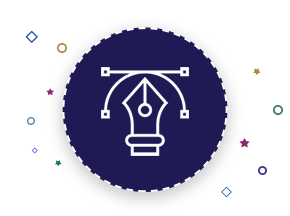
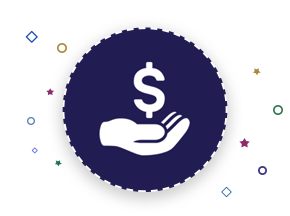
bug fixes

Changed region(s): [[0.3414, 0.2778, 0.6828, 0.7222]]

diff --git a/fonts/fontello/css/fontello-embedded.css b/fonts/fontello/css/fontello-embedded.css
@@ -1,15 +1,15 @@
 @font-face {
   font-family: 'fontello';
-  src: url('../font/fontello.eot?55597791');
-  src: url('../font/fontello.eot?55597791#iefix') format('embedded-opentype'),
-       url('../font/fontello.svg?55597791#fontello') format('svg');
+  src: url('../font/fontello.eot?74266186');
+  src: url('../font/fontello.eot?74266186#iefix') format('embedded-opentype'),
+       url('../font/fontello.svg?74266186#fontello') format('svg');
   font-weight: normal;
   font-style: normal;
 }
 @font-face {
   font-family: 'fontello';
[4 lines of base64/hex data omitted]
 }
 /* Chrome hack: SVG is rendered more smooth in Windozze. 100% magic, uncomment if you need it. */
 /* Note, that will break hinting! In other OS-es font will be not as sharp as it could be */
@@ -17,7 +17,7 @@
 @media screen and (-webkit-min-device-pixel-ratio:0) {
   @font-face {
     font-family: 'fontello';
-    src: url('../font/fontello.svg?55597791#fontello') format('svg');
+    src: url('../font/fontello.svg?74266186#fontello') format('svg');
   }
 }
 */
@@ -53,5 +53,5 @@
   /* text-shadow: 1px 1px 1px rgba(127, 127, 127, 0.3); */
 }
 .icon-right:before { content: '\e800'; } /* '' */
-.icon-right-small:before { content: '\e801'; } /* '' */
-.icon-right-outline:before { content: '\e808'; } /* '' */
+.icon-ok-circled2:before { content: '\e801'; } /* '' */
+.icon-cancel-circled2:before { content: '\e803'; } /* '' */

diff --git a/index.html b/index.html
@@ -18,6 +18,15 @@
             font-weight: normal;
         }
         
+        .mdl-textfield--floating-label.is-focused .mdl-textfield__label,
+        .mdl-textfield--floating-label.is-dirty .mdl-textfield__label {
+            text-transform: uppercase
+        }
+        
+        .has-feedback label~.form-control-feedback {
+            top: 15px;
+        }
+        
         .mdl-textfield {
             width: 100%;
         }
@@ -117,13 +126,19 @@
                         <div class="tab-pane fade in active" id="register">
                             <!--register form-->
 
-                            <form>
+                            <form form data-feedback='{"success": "fa-check", "error": "fa-times"}'>
                                 <div class="col-lg-10 col-lg-offset-1 col-lg-offset-right-1 col-md-10 col-md-offset-1 col-md-offset-right-1 col-sm-12 col-xs-12 pull-right ">
-                                    <div class="mdl-textfield mdl-js-textfield mdl-textfield--floating-label ">
-                                        <input class="mdl-textfield__input " type="text " id="fullName ">
-                                        <label class="mdl-textfield__label " for="fullName ">Full Name</label>
-                                    </div>
 
+                                    <div class="mdl-textfield mdl-js-textfield mdl-textfield--floating-label form-group has-feedback">
+                                        <input type="text" name="fname" id="fname" class="mdl-textfield__input" />
+                                        <label class="mdl-textfield__label " for="fullName ">Full Name</label>
+                                        <span class="form-control-feedback" aria-hidden="true" id="fname1"></span>
+                                    </div>
+                                    <!--
+                                    <div class="mdl-textfield mdl-js-textfield mdl-textfield--floating-label">
+                                        <input class="mdl-textfield__input " type="text" id="fullName ">
+                                        <label class="mdl-textfield__label " for="fullName ">Full Name</label>
+                                    </div>-->
                                     <div class="mdl-textfield mdl-js-textfield mdl-textfield--floating-label ">
                                         <input class="mdl-textfield__input " type="text " id="emailAddress ">
                                         <label class="mdl-textfield__label " for="emailAddress ">Email Address</label>
@@ -207,9 +222,13 @@
 
 
 
+
+
+
     <script src="node_modules/jquery/dist/jquery.min.js "></script>
     <script src="node_modules/bootstrap/dist/js/bootstrap.min.js "></script>
     <script src="libs/mdl/material.min.js "></script>
+    <script src="http://ajax.aspnetcdn.com/ajax/jquery.validate/1.11.1/jquery.validate.min.js "></script>
 
     <script>
         //Google analytics.
@@ -227,6 +246,29 @@
 
         ga('create', 'UA-79865537-1', 'auto');
         ga('send', 'pageview');
+    </script>
+
+    <script>
+        //Form validation.
+        $('form').validate({
+            rules: {
+                fname: {
+                    minlength: 3,
+                    maxlength: 15,
+                }
+            },
+            errorPlacement: function(error, element) {},
+            highlight: function(element) {
+                var id_attr = "#" + $(element).attr("id") + "1";
+                $(element).closest('.form-group').removeClass('has-success').addClass('has-error');
+                $(id_attr).removeClass('icon-ok-circled2').addClass('icon-cancel-circled2');
+            },
+            unhighlight: function(element) {
+                var id_attr = "#" + $(element).attr("id") + "1";
+                $(element).closest('.form-group').removeClass('has-error').addClass('has-success');
+                $(id_attr).removeClass('icon-cancel-circled2').addClass('icon-ok-circled2');
+            },
+        });
     </script>
 
 </body>

diff --git a/fonts/fontello/demo.html b/fonts/fontello/demo.html
@@ -229,11 +229,11 @@ body {
 }
 @font-face {
       font-family: 'fontello';
-      src: url('./font/fontello.eot?49605310');
-      src: url('./font/fontello.eot?49605310#iefix') format('embedded-opentype'),
-           url('./font/fontello.woff?49605310') format('woff'),
-           url('./font/fontello.ttf?49605310') format('truetype'),
-           url('./font/fontello.svg?49605310#fontello') format('svg');
+      src: url('./font/fontello.eot?83295136');
+      src: url('./font/fontello.eot?83295136#iefix') format('embedded-opentype'),
+           url('./font/fontello.woff?83295136') format('woff'),
+           url('./font/fontello.ttf?83295136') format('truetype'),
+           url('./font/fontello.svg?83295136#fontello') format('svg');
       font-weight: normal;
       font-style: normal;
     }
@@ -302,8 +302,8 @@ body {
     <div id="icons" class="container">
       <div class="row">
         <div title="Code: 0xe800" class="the-icons span3"><i class="demo-icon icon-right">&#xe800;</i> <span class="i-name">icon-right</span><span class="i-code">0xe800</span></div>
-        <div title="Code: 0xe801" class="the-icons span3"><i class="demo-icon icon-right-small">&#xe801;</i> <span class="i-name">icon-right-small</span><span class="i-code">0xe801</span></div>
-        <div title="Code: 0xe808" class="the-icons span3"><i class="demo-icon icon-right-outline">&#xe808;</i> <span class="i-name">icon-right-outline</span><span class="i-code">0xe808</span></div>
+        <div title="Code: 0xe801" class="the-icons span3"><i class="demo-icon icon-ok-circled2">&#xe801;</i> <span class="i-name">icon-ok-circled2</span><span class="i-code">0xe801</span></div>
+        <div title="Code: 0xe803" class="the-icons span3"><i class="demo-icon icon-cancel-circled2">&#xe803;</i> <span class="i-name">icon-cancel-circled2</span><span class="i-code">0xe803</span></div>
       </div>
     </div>
     <div class="container footer">Generated by <a href="http://fontello.com">fontello.com</a></div>

diff --git a/fonts/fontello/css/fontello.css b/fonts/fontello/css/fontello.css
@@ -1,11 +1,11 @@
 @font-face {
   font-family: 'fontello';
-  src: url('../font/fontello.eot?10103283');
-  src: url('../font/fontello.eot?10103283#iefix') format('embedded-opentype'),
-       url('../font/fontello.woff2?10103283') format('woff2'),
-       url('../font/fontello.woff?10103283') format('woff'),
-       url('../font/fontello.ttf?10103283') format('truetype'),
-       url('../font/fontello.svg?10103283#fontello') format('svg');
+  src: url('../font/fontello.eot?29430301');
+  src: url('../font/fontello.eot?29430301#iefix') format('embedded-opentype'),
+       url('../font/fontello.woff2?29430301') format('woff2'),
+       url('../font/fontello.woff?29430301') format('woff'),
+       url('../font/fontello.ttf?29430301') format('truetype'),
+       url('../font/fontello.svg?29430301#fontello') format('svg');
   font-weight: normal;
   font-style: normal;
 }
@@ -15,7 +15,7 @@
 @media screen and (-webkit-min-device-pixel-ratio:0) {
   @font-face {
     font-family: 'fontello';
-    src: url('../font/fontello.svg?10103283#fontello') format('svg');
+    src: url('../font/fontello.svg?29430301#fontello') format('svg');
   }
 }
 */
@@ -56,5 +56,5 @@
 }
  
 .icon-right:before { content: '\e800'; } /* '' */
-.icon-right-small:before { content: '\e801'; } /* '' */
-.icon-right-outline:before { content: '\e808'; } /* '' */
+.icon-ok-circled2:before { content: '\e801'; } /* '' */
+.icon-cancel-circled2:before { content: '\e803'; } /* '' */

diff --git a/fonts/fontello/css/fontello-ie7.css b/fonts/fontello/css/fontello-ie7.css
@@ -11,5 +11,5 @@
 }
  
 .icon-right { *zoom: expression( this.runtimeStyle['zoom'] = '1', this.innerHTML = '&#xe800;&nbsp;'); }
-.icon-right-small { *zoom: expression( this.runtimeStyle['zoom'] = '1', this.innerHTML = '&#xe801;&nbsp;'); }
-.icon-right-outline { *zoom: expression( this.runtimeStyle['zoom'] = '1', this.innerHTML = '&#xe808;&nbsp;'); }
+.icon-ok-circled2 { *zoom: expression( this.runtimeStyle['zoom'] = '1', this.innerHTML = '&#xe801;&nbsp;'); }
+.icon-cancel-circled2 { *zoom: expression( this.runtimeStyle['zoom'] = '1', this.innerHTML = '&#xe803;&nbsp;'); }

diff --git a/fonts/fontello/css/fontello-ie7-codes.css b/fonts/fontello/css/fontello-ie7-codes.css
@@ -1,4 +1,4 @@
 
 .icon-right { *zoom: expression( this.runtimeStyle['zoom'] = '1', this.innerHTML = '&#xe800;&nbsp;'); }
-.icon-right-small { *zoom: expression( this.runtimeStyle['zoom'] = '1', this.innerHTML = '&#xe801;&nbsp;'); }
-.icon-right-outline { *zoom: expression( this.runtimeStyle['zoom'] = '1', this.innerHTML = '&#xe808;&nbsp;'); }
+.icon-ok-circled2 { *zoom: expression( this.runtimeStyle['zoom'] = '1', this.innerHTML = '&#xe801;&nbsp;'); }
+.icon-cancel-circled2 { *zoom: expression( this.runtimeStyle['zoom'] = '1', this.innerHTML = '&#xe803;&nbsp;'); }

diff --git a/css/style.css b/css/style.css
@@ -22,6 +22,18 @@
     a:focus {
         color: #2196f3;
     }
+    
+    .form-control-feedback {
+        width: 20px;
+    }
+    
+    .has-error .form-control-feedback {
+        color: #bb4141;
+    }
+    
+    .has-success .form-control-feedback {
+        color: #43bb41;
+    }
     /* Slider */
     
     .mlt-carousel {

diff --git a/fonts/fontello/css/fontello-codes.css b/fonts/fontello/css/fontello-codes.css
@@ -1,4 +1,4 @@
 
 .icon-right:before { content: '\e800'; } /* '' */
-.icon-right-small:before { content: '\e801'; } /* '' */
-.icon-right-outline:before { content: '\e808'; } /* '' */
+.icon-ok-circled2:before { content: '\e801'; } /* '' */
+.icon-cancel-circled2:before { content: '\e803'; } /* '' */
